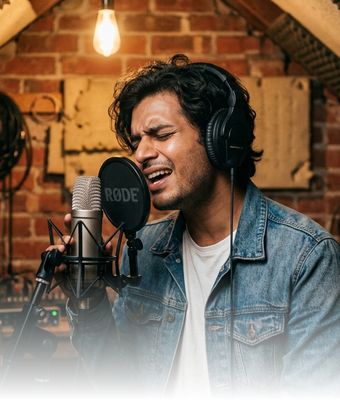
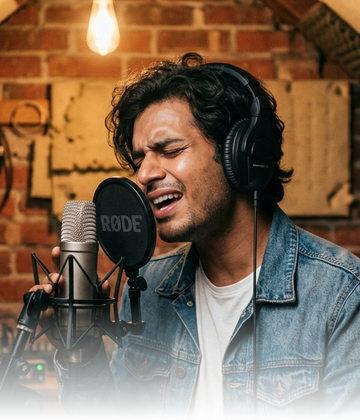
feat(about): remove description, style CTA to design system, and improve mosaic image alignments

diff --git a/cora-frontend/app/about/page.tsx b/cora-frontend/app/about/page.tsx
@@ -127,27 +127,22 @@ export default function AboutPage() {
       <section className="w-full max-w-[1400px] mx-auto px-3 xs:px-4 sm:px-6 text-center mb-24 sm:mb-32">
         
         {/* Eyebrow */}
-        <div className="inline-flex items-center gap-2 px-3.5 py-1 text-[11px] xs:text-xs sm:text-[13px] font-mono font-bold uppercase tracking-widest text-[#7B2BF9] mb-3 sm:mb-5">
+        <div className="inline-flex items-center gap-2 px-3.5 py-1 text-[11px] xs:text-xs sm:text-[13px] font-mono font-bold uppercase tracking-widest text-[#7B2BF9] mb-3 sm:mb-4">
           <span>MAXIMIZE HUMAN PRODUCTIVITY</span>
         </div>
 
         {/* Main Headline (Reduced font weight, uppercase CORA) */}
-        <h1 className="font-display text-4xl xs:text-5xl sm:text-6xl lg:text-[76px] font-bold text-zinc-950 leading-[1.08] tracking-[-0.03em] max-w-[960px] mx-auto mb-3.5 sm:mb-4">
+        <h1 className="font-display text-4xl xs:text-5xl sm:text-6xl lg:text-[76px] font-bold text-zinc-950 leading-[1.08] tracking-[-0.03em] max-w-[960px] mx-auto mb-6 sm:mb-8">
           We are <span className="font-bold text-zinc-950">CORA</span>.
         </h1>
 
-        {/* Subtitle */}
-        <p className="text-zinc-600 text-sm xs:text-base sm:text-xl font-normal leading-relaxed max-w-[620px] mx-auto mb-7 sm:mb-9">
-          The Convergence of software, AI, humans.
-        </p>
-
-        {/* Hero CTA Button */}
-        <div className="flex items-center justify-center mb-10 sm:mb-16">
+        {/* Hero CTA Button (Strictly following Cora Design System Tokens: rounded-xl, monochromatic) */}
+        <div className="flex items-center justify-center mb-12 sm:mb-16">
           <a
             href="#manifesto"
-            className="inline-flex items-center gap-2.5 bg-[#18181B] text-white px-6 sm:px-7 py-3 sm:py-3.5 rounded-full text-xs sm:text-sm font-bold hover:bg-black transition-all shadow-md hover:shadow-lg hover:-translate-y-0.5 group"
+            className="inline-flex items-center gap-2 bg-zinc-950 text-white hover:bg-zinc-900 border border-zinc-800 px-6 sm:px-7 py-3 sm:py-3.5 rounded-xl text-xs sm:text-sm font-semibold tracking-tight shadow-sm hover:shadow-md hover:-translate-y-0.5 transition-all group"
           >
-            <Play className="w-3 h-3 fill-white text-white" />
+            <Play className="w-3.5 h-3.5 fill-white text-white group-hover:scale-110 transition-transform" />
             <span>Learn more about us</span>
           </a>
         </div>
